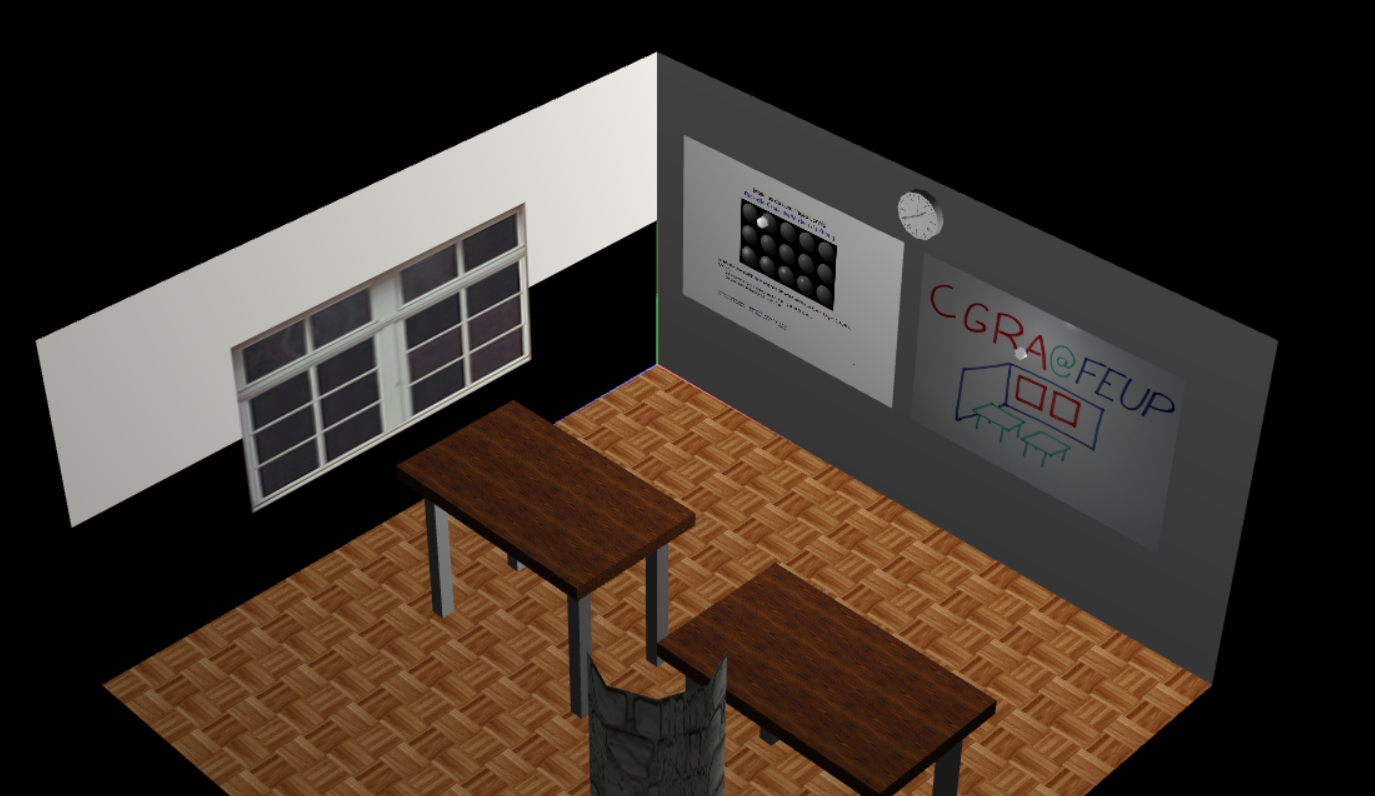
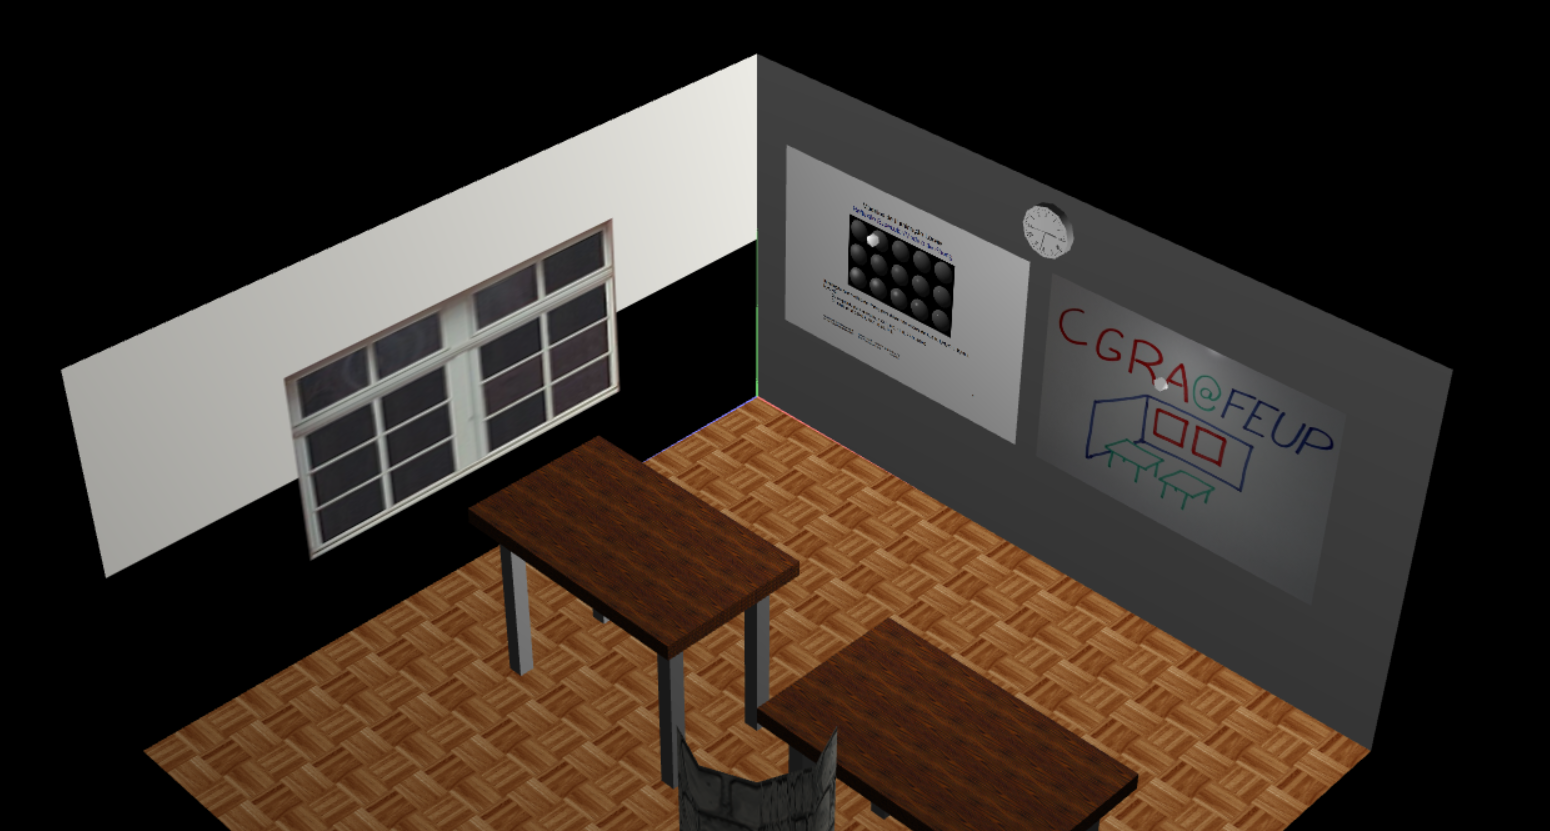
alteraçao tp5

diff --git a/TP5/MyClock.js b/TP5/MyClock.js
@@ -58,15 +58,17 @@ MyClock.prototype.display = function() {
 
 }
 
-MyClock.prototype.update = function(currTime){
+MyClock.prototype.update = function(deltaTime){
 
-  var totalSecs = currTime/1000;
-  var sec = totalSecs % 60;
-  var min = (totalSecs % 3600) / 60;
-  var hour = (totalSecs /3600) %12;
+  let time = deltaTime/1000;
 
-  this.secPointer.setAngle(sec*360/60);
-  this.minPointer.setAngle(min*360/60);
-  this.hourPointer.setAngle(hour*360/12);
+  let secAngle=(this.secPointer.angle + time * 360/60)%360;
+  let minAngle=(this.minPointer.angle + time * 360/60/60)%360;
+  let hourAngle=(this.hourPointer.angle + time * 360/60/60/12)%360;
+
+  this.secPointer.setAngle(secAngle);
+  this.minPointer.setAngle(minAngle);
+  this.hourPointer.setAngle(hourAngle);
+
 
 }

diff --git a/TP5/LightingScene.js b/TP5/LightingScene.js
@@ -88,7 +88,9 @@ LightingScene.prototype.init = function(application) {
     this.cylinderAppearance.setAmbient(0.5, 0.5, 0.5, 1);
 
     //time
+    this.firstTime=1;
     this.setUpdatePeriod(100);
+
 
 };
 
@@ -127,7 +129,17 @@ LightingScene.prototype.updateLights = function() {
 
 LightingScene.prototype.update = function(currTime){
 
-    this.clock.update(currTime);
+    if(this.firstTime == 1){
+      this.lastTime = currTime;
+      this.firstTime=0;
+    }
+
+    if(this.firstTime==0){
+      this.lastTime = this.lastTime;
+      this.deltaTime = currTime - this.lastTime;
+      this.lastTime = currTime;
+      this.clock.update(this.deltaTime);
+    }
 
 }
 
